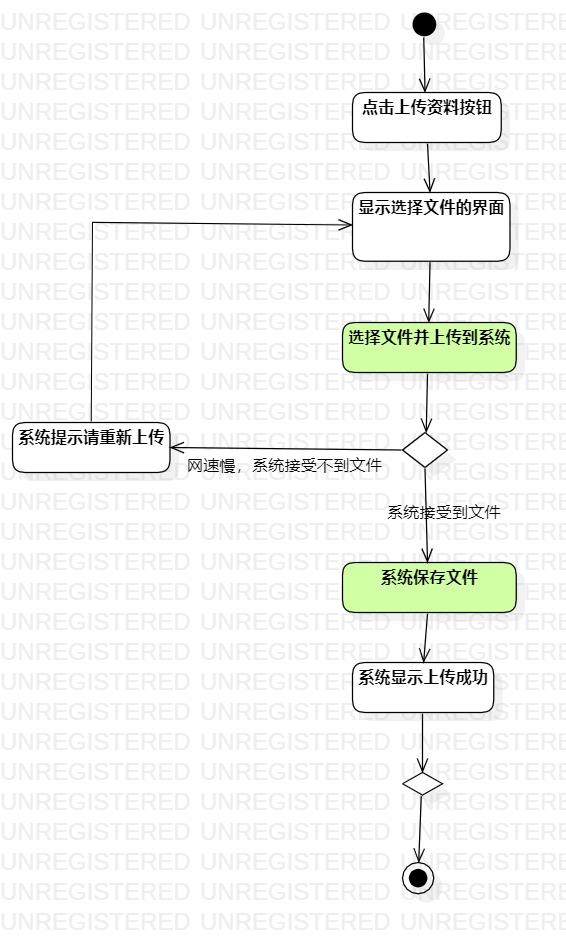
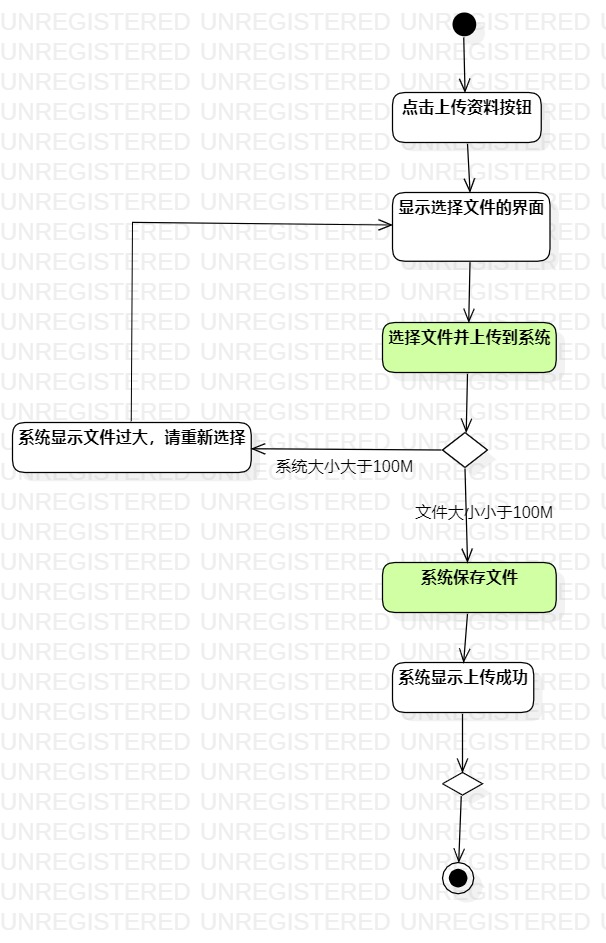
#3 #155 实验三：过程建模

diff --git a/students/1706081301317/lab2.md b/students/1706081301317/lab2.md
@@ -41,7 +41,7 @@
 ~| 4.教师选择资料并上传到系统   |   
 ~| 5.系统接收到文件并保存 |  
 ~| 6.系统显示上传成功 |
-扩展流程  | 4.1 上传时网速慢导致失败，系统显示请重新上传，并返回选择文件的界面 |  *用例执行失败*    
+扩展流程  | 4.1 上传的文件超过100M，系统不保存，提示文件过大 |  *用例执行失败*    
 
 #### 表2：查找资料用例规约
 
